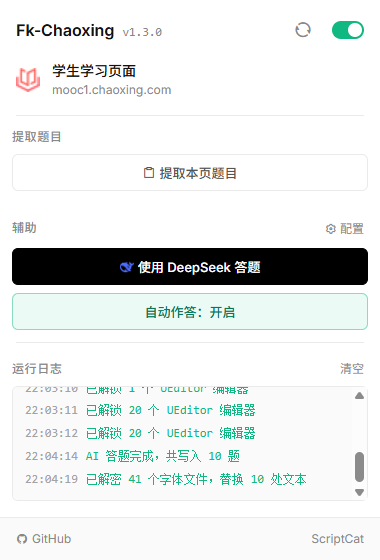
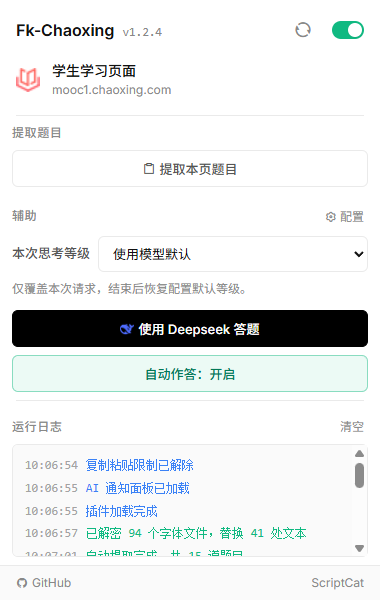
chore: update version to 1.2.4 and modify changelog for new features and fixes

diff --git a/popup.html b/popup.html
@@ -19,7 +19,7 @@
     <!-- Header -->
     <header class="header">
       <div class="header-left">
-        <h1 class="plugin-title">Fk-Chaoxing <span class="version">v1.3.1</span></h1>
+        <h1 class="plugin-title">Fk-Chaoxing <span class="version">v1.2.4</span></h1>
       </div>
       <div class="header-right">
         <button class="btn-icon" id="btn-refresh" title="重载插件" style="margin-right: 4px;">

diff --git a/CHANGELOG.md b/CHANGELOG.md
@@ -1,9 +1,26 @@
 # 更新日志
-## \[1.3.1] - 2026-06-08
-### 修复
-- 修复用户在填空题多个UE编辑器中粘贴后无法在原本的题目答题区域显示粘贴内容，这并不影响实际粘贴的值，为了美观已经修复。
+## \[1.2.4] - 2026-09-18
 
-## \[1.3.0] - 2026-06-05
+### 新增
+
+- AI 模型配置支持分别选择 Chat Completions 或 Responses API；切换协议时自动调整标准请求路径，并保留自定义路径。
+- 新增模型默认思考等级与单次请求临时覆盖，支持模型默认、不思考、Low、Medium、High、XHigh 和 Max。
+- 支持提取、复制、展示及自动填写作业页面的排序题和连线题；连线题按页面显示编号匹配，允许右侧选项重复使用。
+
+### 优化
+
+- 保存模型配置时按所选协议和思考等级测试连接；接口报错或响应不完整时显示具体原因。
+- 排序题和连线题通过页面原有下拉选项事件填写，并校验选中值与隐藏答案字段；单题填写失败不影响其他题目。关闭自动作答时仅展示答案，不自动保存或提交。
+- 调整弹窗布局并扩大运行日志区域，便于查看答题进度和错误信息。
+
+### 修复
+
+- Responses 配置默认不发送温度参数，避免不支持温度的推理模型在连接测试或答题时请求失败；Chat Completions 保持原有默认值。
+- 修复使用 `/v1/chat/completions` 或 `/v1/responses` 作为请求路径时，切换 API 类型未同步更新路径的问题。
+
+***
+
+## \[1.2.3] - 2026-06-05
 
 ### 新增
 
@@ -23,10 +40,11 @@
 - 修复首次安装时自动创建空「默认模型」导致用户困惑的问题。
 - 修复作业页面选择题选项值与显示文本不一致导致的答案选择错误。
 - 修复删除最后一个模型配置后界面状态异常的问题。
+- 修复用户在填空题多个UE编辑器中粘贴后无法在原本的题目答题区域显示粘贴内容，这并不影响实际粘贴的值，为了美观已经修复。
 
 ***
 
-## \[1.2.3] - 2026-05-30
+## \[1.2.2.1] - 2026-05-30
 
 ### 新增
 
